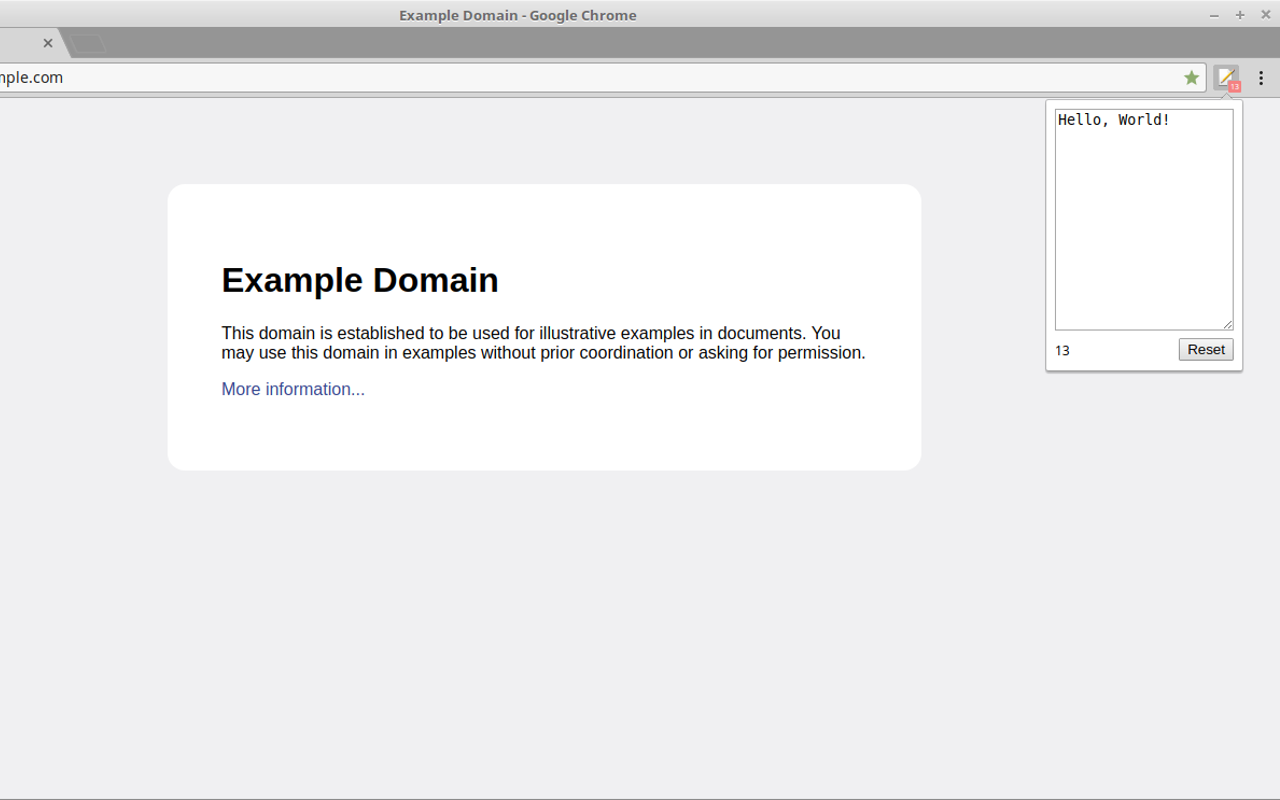
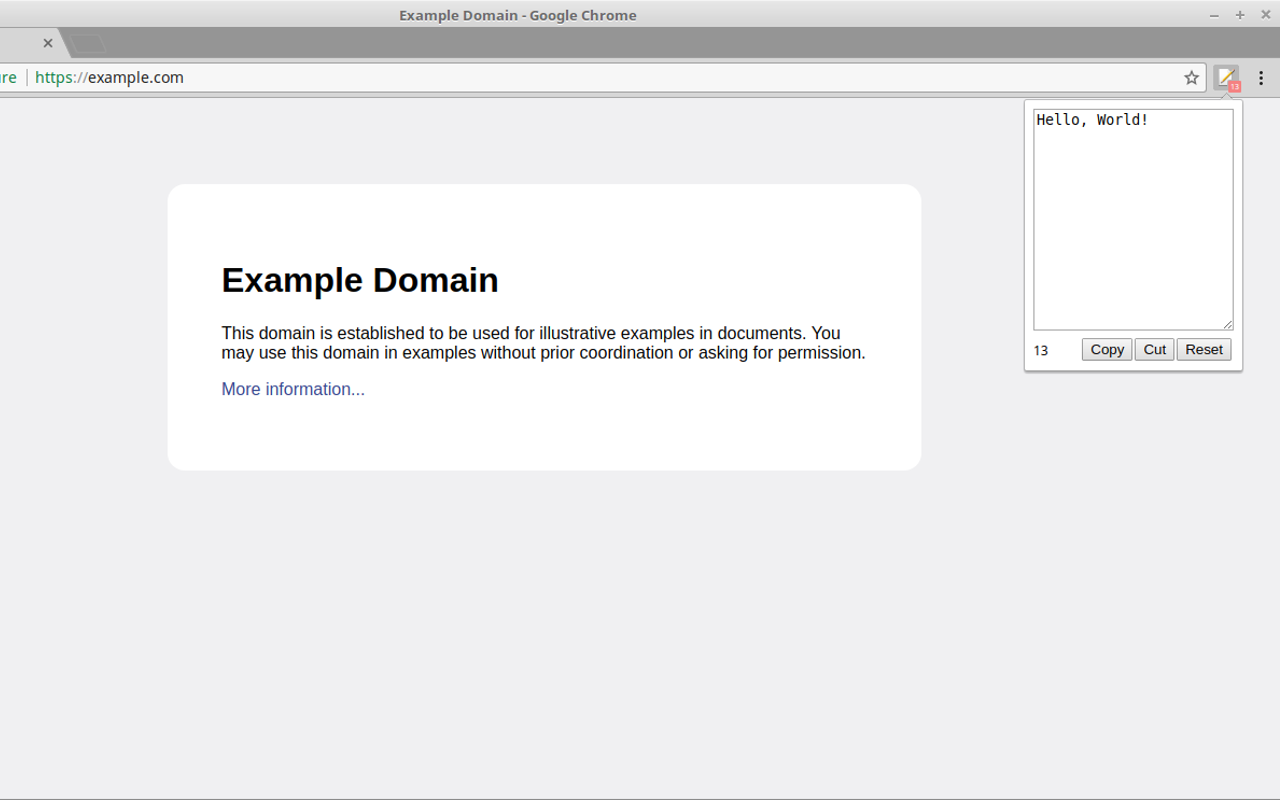
1.1.0

Changed region(s): [[0.7812, 0.4062, 0.9688, 0.4688], [0.0, 0.0938, 0.1562, 0.125], [0.7812, 0.125, 0.9062, 0.1562]]

diff --git a/js/popup.js b/js/popup.js
@@ -1,19 +1,24 @@
 ;'use strict';
 
+/* global chrome */
+
 window.addEventListener('DOMContentLoaded', function () {
 
   var ext = {
 
-    inputField: document.querySelector('textarea'),
-    resetButton: document.querySelector('input[type=reset]'),
+    textarea:            document.querySelector('textarea'),
+    copyButton:          document.getElementById('copy-button'),
+    cutButton:           document.getElementById('cut-button'),
+    resetButton:         document.getElementById('reset-button'),
     outputLengthElement: document.querySelector('output'),
+
     noteLength: 0,
     storage: chrome.storage.sync,
 
     bootstrap: function () {
       this.storage.get(function (data) {
         if (data.note) {
-          ext.inputField.value = data.note;
+          ext.textarea.value = data.note;
         }
         ext._setLength();
         ext._setBadgeText();
@@ -22,13 +27,13 @@ window.addEventListener('DOMContentLoaded', function () {
     },
 
     updateNote: function () {
-      ext.storage.set({'note': ext.inputField.value});
+      ext.storage.set({'note': ext.textarea.value});
       ext._setLength();
       ext._setBadgeText();
     },
 
     _setLength: function () {
-      ext.noteLength = ext.inputField.value.length;
+      ext.noteLength = ext.textarea.value.length;
       ext.outputLengthElement.textContent = ext.noteLength;
     },
 
@@ -42,13 +47,31 @@ window.addEventListener('DOMContentLoaded', function () {
 
   ext.bootstrap();
 
-  ext.inputField.addEventListener('input', function () {
+  ext.textarea.addEventListener('input', function () {
     ext.updateNote();
   });
 
+  ext.copyButton.addEventListener('click', function () {
+    copyTextToClipboard(ext.textarea.value);
+  });
+
+  ext.cutButton.addEventListener('click', function () {
+    copyTextToClipboard(ext.textarea.value);
+    ext.resetButton.click();
+  });
+
   ext.resetButton.addEventListener('click', function () {
-    ext.inputField.value = '';
+    ext.textarea.value = '';
     ext.updateNote();
   });
+
+  function copyTextToClipboard(text) {
+    var textarea = document.createElement('textarea');
+    textarea.value = text;
+    document.body.appendChild(textarea);
+    textarea.select();
+    document.execCommand('copy');
+    document.body.removeChild(textarea);
+  }
 
 });

diff --git a/css/popup.css b/css/popup.css
@@ -3,13 +3,17 @@
 textarea {
   display: block;
   height: 200px;
-  width: 160px;
+  width: 180px;
   outline: 0;
 }
 
-input[type="reset"] {
+button {
   float: right;
   margin: 7px 0;
+}
+
+button:not(:last-child) {
+  margin-right: 2px;
 }
 
 output {

diff --git a/popup.html b/popup.html
@@ -8,7 +8,9 @@
 </head>
 <body>
   <textarea autofocus></textarea>
-  <input type="reset">
+  <button id="reset-button">Reset</button>
+  <button id="cut-button">Cut</button>
+  <button id="copy-button">Copy</button>
   <output></output>
 </body>
 </html>

diff --git a/README.md b/README.md
@@ -5,7 +5,7 @@
 
 Chrome extension for quick notes with a characters' counting feature.
 
-![Simple Quick Note](img/screenshot-258x360.png)
+![Simple Quick Note](img/screenshot-1280x800.png)
 
 ## Installation for developers (for Linux users)
 

diff --git a/CHANGELOG.md b/CHANGELOG.md
@@ -1,0 +1,12 @@
+# Change Log
+
+- [1.1.0 October 27, 2017](#110-october-27-2017)
+- [1.0.0 July 13, 2017](#100-july-18-2017)
+
+## 1.1.0 October 27, 2017
+
+- Added "Copy" and "Cut" buttons
+
+## 1.0.0 July 13, 2017
+
+- Initial release
